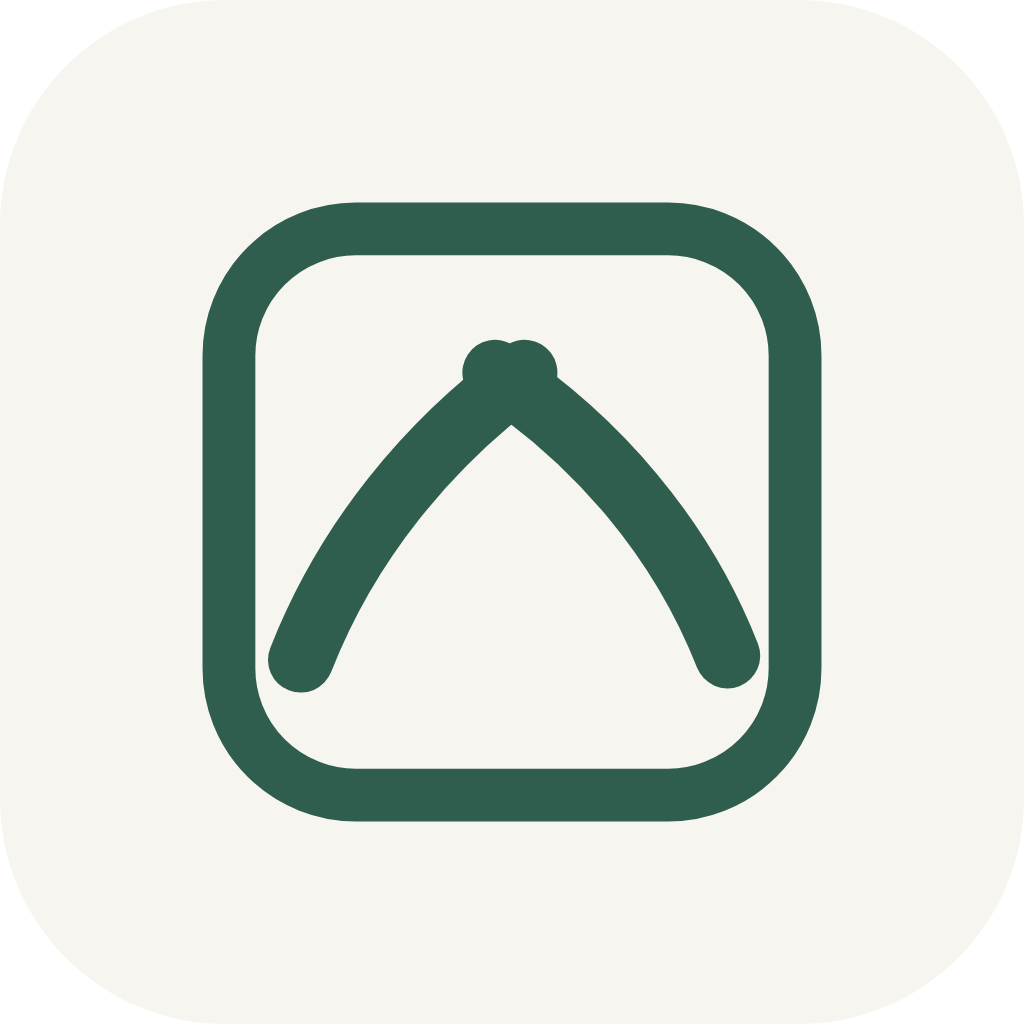
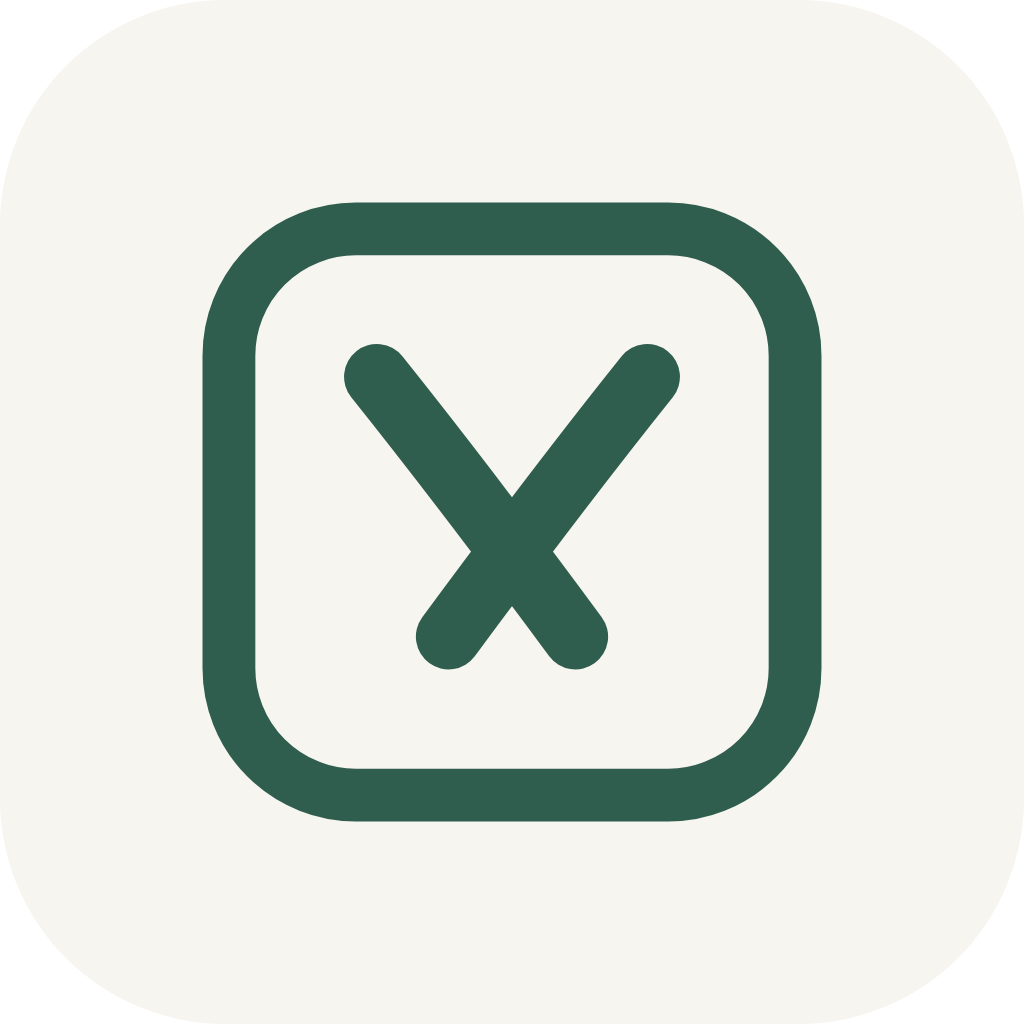
品牌印记改成真正的「两笔交叉」+ 打包配置修正（JSON 损坏 / 证书参数）
## 品牌印记：注释说「两笔交叉」，实际画的是「A」

`common/icons.js` 的 `INK_BRAND` 注释写着「两笔交叉，取『比』字两笔相并之意」，
但两条路径**交在顶点、不互相穿过**，渲染出来是「A / 人」字形。

现改为真正交叉成 X（两条从对角起点出发、在中点相交后延伸到对角）。
**两处一起改**：
  · `common/icons.js` 的 INK_BRAND（App 内导航栏印记）
  · 图标生成脚本（App 桌面图标 / 启动图）
两处保持一致，否则桌面图标与导航栏会是两个样子。

App 图标与启动图已按新路径重新生成（`static/app/`）。

## pack-configure.json：修掉两个真错误

1. **JSON 是坏的**：我在字符串值里用了 ASCII 双引号（`"__待填__"：证书别名`），
   把 JSON 截断了；另外写文件时带了 UTF-8 BOM，`ConvertFrom-Json` 也读不了。
   现在字符串里不再出现 ASCII 双引号，文件无 BOM，用 Node 严格校验通过。

2. **证书参数用错了**：原来只写了 certalias/certpassword/storepassword，
   于是 `cli pack` 一直报「证书库密码不能为空」。查参数表发现两件事：
     · `--android.androidpacktype` 可以选 **1 = 公共证书**（DCloud 生成），
       那种情况下根本不需要证书
     · 用 `safemode`（安心打包、证书不上云）则**必须**有本地证书库
   所以补上了 `certfile`，并按"本地自签名 + 安心打包"这条更安全的路配好。

## 打包用的证书

`E:\比邻AI-签名\bilin.keystore`（RSA 2048 / 100 年，别名 bilin）。
**故意放在仓库外**：证书不该进版本库。
⚠ 这个文件丢了就再也无法更新已上架的应用，务必单独备份。

## 现状：只差 DCloud appid

`manifest.json` 的 appid 仍是空的，`pack-configure.json` 里是占位符。
云打包是**按 appid 把项目上传到 DCloud 服务器**打包的，没有 appid，
`cli pack` 会一直挂着等（实测：CPU 0s、无网络连接、无子进程，卡死 18 分钟）。
appid 必须在 https://dev.dcloud.net.cn/ 用账号申请，拿到后填入
manifest.json 与 pack-configure.json 即可打包。

Changed region(s): [[0.25, 0.3125, 0.75, 0.6875]]

diff --git a/uni-app/common/icons.js b/uni-app/common/icons.js
@@ -56,11 +56,19 @@ export const ICONS = {
 /**
  * 品牌印记：比邻印章（两笔交叉，取「比」字两笔相并之意 + 天涯若比邻）
  * 32×32 viewBox，与图标集尺寸不同，需用 iconSrcOf(INK_BRAND, color, 32)
+ *
+ * ⚠ 2026-10 修正：这两条路径原来**交在顶点、不互相穿过**，渲染出来是
+ *    「A / 人」字形，与注释写的「两笔交叉」不符。
+ *    现改为真正交叉成 X（两条从对角起点出发、在中点相交后继续延伸到对角）。
+ *    App 图标（static/app/*）由 `.uni-shot/gen-app-icons.mjs` 从同一组路径生成，
+ *    **改了这里要一起重跑那个脚本**，否则桌面图标与导航栏印记会不一样。
  */
 export const INK_BRAND =
   '<rect x="2.6" y="2.6" width="26.8" height="26.8" rx="6" fill="none" stroke="{c}" stroke-width="2.5"/>' +
-  '<path d="M16.6 9.4c-4.6 3.4-8.4 8-10.6 13.6" fill="none" stroke="{c}" stroke-width="3.1" stroke-linecap="round"/>' +
-  '<path d="M15.2 9.4c4.8 3.2 8.8 7.8 11 13.4" fill="none" stroke="{c}" stroke-width="3.1" stroke-linecap="round"/>'
+  // 左上 → 右下
+  '<path d="M9.6 9.6c3.2 4 6.3 8.1 9.4 12.3" fill="none" stroke="{c}" stroke-width="3.1" stroke-linecap="round"/>' +
+  // 右上 → 左下
+  '<path d="M22.4 9.6c-3.2 4-6.3 8.1-9.4 12.3" fill="none" stroke="{c}" stroke-width="3.1" stroke-linecap="round"/>'
 
 /** 生成 SVG 的 data URI（base64，三端通用） */
 export function iconSrc(name, color = '#1F211D') {
